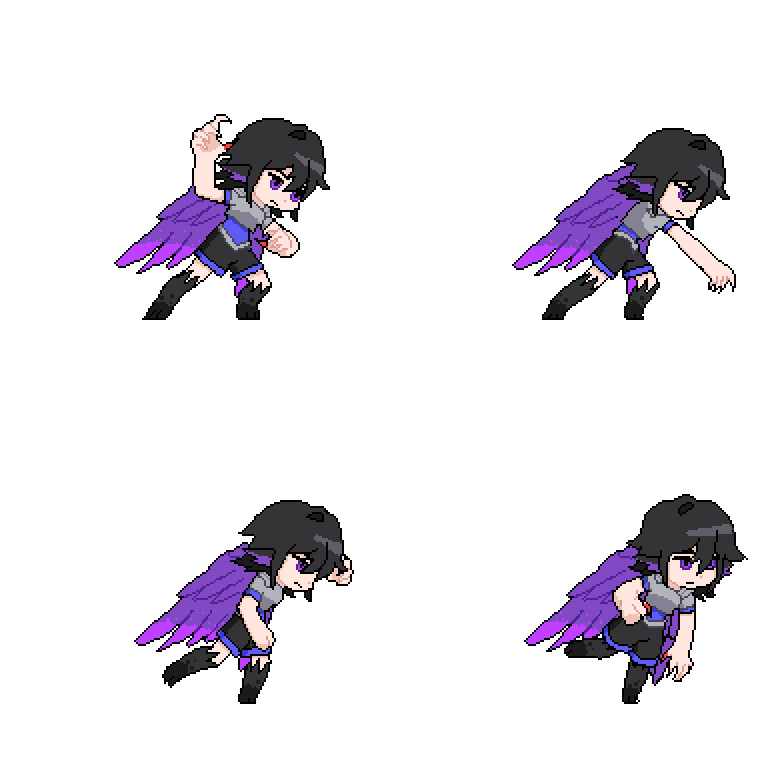
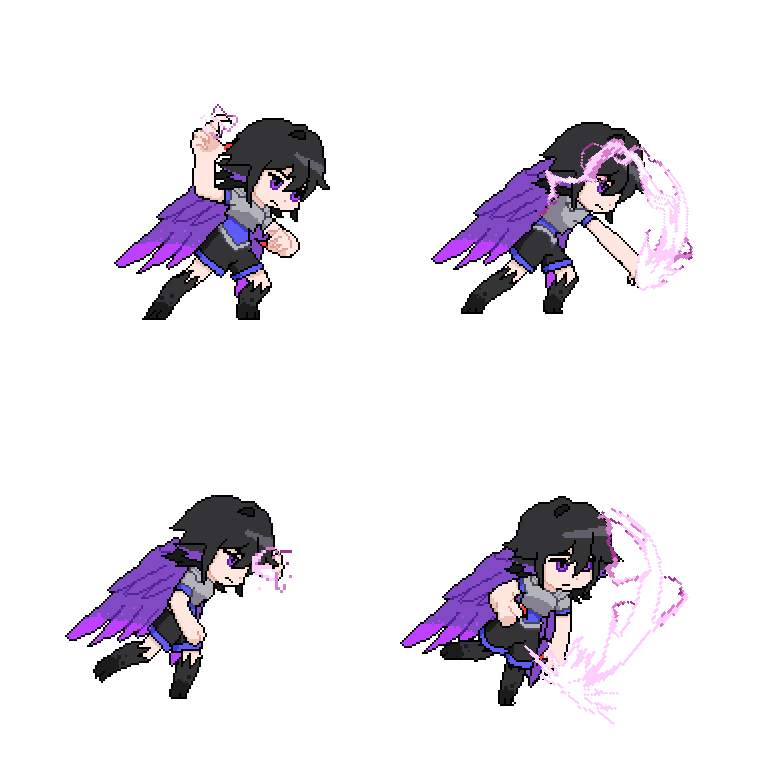
나크티스 스킬 이펙트 수정

diff --git a/Assets/Scripts/Manager/VarManager.cs b/Assets/Scripts/Manager/VarManager.cs
@@ -38,11 +38,6 @@ public class VarManager : MonoBehaviour
             Manager = this;
         }
     }
-    public void Update()
-    {
-        Debug.Log("작동중");
-    }
-
     public void PlayerOpponentInitialize()
     {
         SetComponents();
